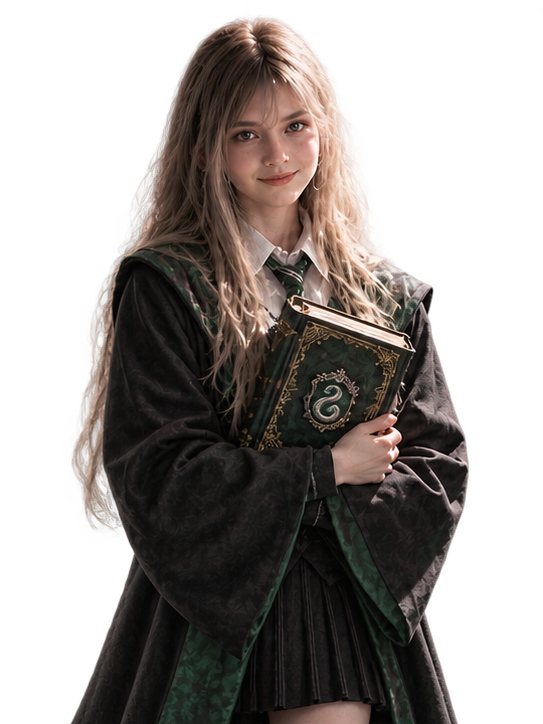
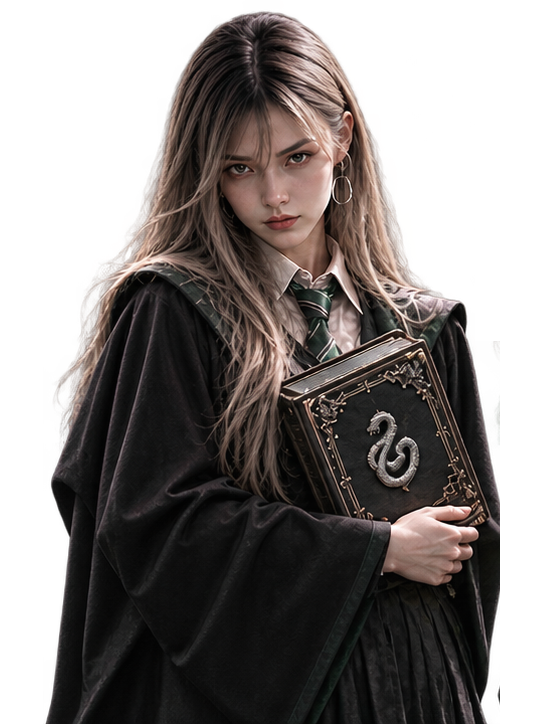
feat: use cutout portraits for agent states
Replace the four transparent state sprites with five cutout portraits
(idle, working, thinking, blocked, done, 543x724). Working now rotates
between working and thinking; adjacent cards alternate. Drop the potion
and reading poses.

diff --git a/mods/malfoid-agents/lib.js b/mods/malfoid-agents/lib.js
@@ -7,22 +7,21 @@ export function stateFor(status) {
 
 const STATUS = { blocked: "等待指示", done: "已完成", idle: "休息中" };
 
-// 工作中輪替三種動作。文字與圖由同一個時間算出，兩者才不會錯開。
+// 工作中輪替兩種動作。文字與圖由同一個時間算出，兩者才不會錯開。
 export const ACTION_MS = 3000;
 export const TICK_MS = 1000;
 const WORKING_ACTIONS = [
   { text: "施法中", sprite: "working" },
-  { text: "製魔藥", sprite: "working-potion" },
-  { text: "閱讀咒語", sprite: "working-reading" },
+  { text: "思考中", sprite: "thinking" },
 ];
 
 function actionAt(ms) {
   return WORKING_ACTIONS[Math.floor(ms / ACTION_MS) % WORKING_ACTIONS.length];
 }
 
-// 第 i 張卡的時間偏移：動作差一格、切換時機差一個 tick，前 9 張的相位都不同。
+// 第 i 張卡的時間偏移：差一格動作，相鄰卡永遠交錯顯示不同動作（整列同時換）。
 export function phaseOffset(index) {
-  return index * (ACTION_MS + TICK_MS);
+  return index * ACTION_MS;
 }
 
 export function statusText(status, ms = 0) {

diff --git a/RECIPE.md b/RECIPE.md
@@ -15,7 +15,7 @@ Spaces 與 Agents 以 2px accent 分隔線分開；右側 panel 使用 sidebar.p
 
 ## How it behaves
 
-`working` 每 3 秒同步切換施法中、製魔藥、閱讀咒語的文字與姿態，青綠狀態燈呼吸；`blocked` 托球，金色文字與外框；
+`working` 每 3 秒同步切換施法中、思考中的文字與姿態，相鄰卡交錯，青綠狀態燈呼吸；`blocked` 托球，金色文字與外框；
 `done` 舉杖微笑，薄荷綠狀態；`idle` 抱書休息。未知狀態回到休息姿態。
 卡片點擊執行 `agent.focus`，Spaces 點擊切換、右鍵開選單、同機器內可排序。
 分頁與面板保留 Traveler 的操作，面板開關按 space 記憶。
@@ -29,12 +29,12 @@ Herdr 內建 pane／workspace-status，以及 malfoid-files／malfoid-changes／
 後四者為既有面板的主題專用複本，根底色使用 chrome 的 60% 不透明度，讓 panel 背景圖透出。
 原本四個模組改自本機 Traveler，使用 `agents`、`spaces`、`panes`、`readTextFile`、`watchFolder`、`run`；
 Spaces 保留上游 Git 查詢與 `hc machine ls`。工作動作用 1 秒計時器重繪（僅在有 agent 工作時），文字與 PNG 才能同步，各卡依列表順序錯開；狀態燈使用 `.loop("opacity", ...)`，不使用高頻計時器。
-美術為角色照片、使用者素材表、imagegen 生成的四態透明圖與空城堡、手寫 SVG 小圖示。
+美術為角色照片、使用者素材表、使用者提供的去背五態人像（543×724 透明）與空城堡、手寫 SVG 小圖示。
 
 ## Watch out
 
 此版本以本機 Herdr 0.1.12 為準，需要已安裝的 inbox 與 git-graph。
-各姿態為固定畫面，working 以三張姿態輪替，由時間決定，不代表 agent 實際在做什麼；沒有獨立 Thinking 狀態或八角色換裝。
+各姿態為固定畫面，working 以兩張姿態（Working／Thinking）輪替，由時間決定，不代表 agent 實際在做什麼；沒有獨立 Thinking 狀態或八角色換裝。
 模組不能匯入自己資料夾以外的 JavaScript；不要跨模組共用 lib。
 原生 check 不涵蓋完整畫面與稍後載入的資料，必須搭配 `herdr-app status` 和 `herdr-app shot`。
 所有安裝路徑獨立，撞名時停止，既有 layout 保留可切回。

diff --git a/artwork/prompts.md b/artwork/prompts.md
@@ -2,7 +2,10 @@
 
 工具：內建 `image_gen.imagegen`。2026-11-04 製作。
 
-## 四態角色圖
+## 四態角色圖（已被 Agent UI Kit 人像取代）
+
+目前 `mods/malfoid-agents/states/` 的 idle／working／thinking／blocked／done 取自 `malfoid/five-magical-portrait-states.png`（2172×724 去背，不進 git）。
+依 alpha 質量最小處切成五段（x 切點 457／881／1301／1724），各自置中放進 543×724 透明畫布；idle 右緣一小段鄰格飄髮已清除。以下為先前透明四態圖的紀錄。
 
 參考圖：`malfoid/奇幻女巫角色狀態素材表.png`。
 輸出：`artwork/character-states-source.png`，2172×724，透明 PNG。

diff --git a/artwork/extra-poses-prompt.md b/artwork/extra-poses-prompt.md
@@ -1,4 +1,6 @@
-# 額外工作姿態
+# 額外工作姿態（已停用）
+
+`working-potion.png`、`working-reading.png` 已移除，工作輪替改為 working／thinking 兩張，見 `artwork/prompts.md`。
 
 使用內建 imagegen；參考 `artwork/character-states-source.png`。
 生成 `artwork/working-poses-source.png`，1881×836，三格各 627×836，依序為翻書、寫筆記、調製魔藥。
